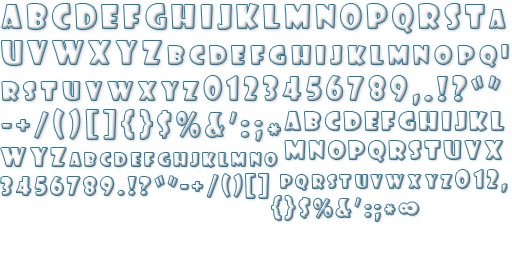
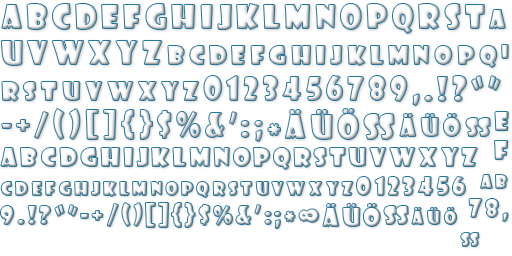
[274] font-support for German umlauts

Changed region(s): [[0.0, 0.4062, 1.0, 0.9062], [0.875, 0.9062, 0.9375, 0.9688]]

diff --git a/Source/FirstParty/AllInOneSolution/AllInOneSolution/Core/gui/BitmapFont.cpp b/Source/FirstParty/AllInOneSolution/AllInOneSolution/Core/gui/BitmapFont.cpp
@@ -8,25 +8,26 @@
 
 #include <utility>
 
-BitmapFont::Glyph::Glyph(const sf::Texture& texture, int xOffset) : Sprite(texture), m_spacing(texture.getSize().x), m_xOffset(xOffset)
-{
-}
-
-BitmapFont::Glyph::Glyph(const sf::Texture& texture, int spacing, int xOffset) : Sprite(texture), m_spacing(spacing), m_xOffset(xOffset)
-{
-}
-
-BitmapFont::Glyph::Glyph(const sf::Texture& texture, const sf::IntRect& rectangle, int xOffset) : Sprite(texture, rectangle), m_spacing(rectangle.width), m_xOffset(xOffset)
-{
-}
-
-BitmapFont::Glyph::Glyph(const sf::Texture& texture, const sf::IntRect& rectangle, int spacing, int xOffset) : Sprite(texture, rectangle), m_spacing(spacing), m_xOffset(xOffset)
+BitmapFont::Glyph::Glyph(const sf::Texture& texture,
+    const sf::IntRect& rectangle,
+    int spacing,
+    int xOffset,
+    int yOffset) :
+        Sprite(texture, rectangle),
+        m_spacing(spacing),
+        m_xOffset(xOffset),
+        m_yOffset(yOffset)
 {
 }
 
 int BitmapFont::Glyph::getSpacing() const
 {
     return static_cast<int>(m_spacing * getScale().x);
+}
+
+int BitmapFont::Glyph::getVerticalOffset() const 
+{
+    return static_cast<int>(m_yOffset * getScale().y);
 }
 
 void BitmapFont::Glyph::draw(sf::RenderTarget& target, sf::RenderStates states) const
@@ -38,8 +39,6 @@ void BitmapFont::Glyph::draw(sf::RenderTarget& target, sf::RenderStates states) 
 
 bool BitmapFont::loadFromFile(const std::string& path, ResourceManager& resourceManager)
 {
-
-    int height;
     tinyxml2::XMLDocument doc;
     doc.LoadFile(path.c_str());
     
@@ -48,18 +47,25 @@ bool BitmapFont::loadFromFile(const std::string& path, ResourceManager& resource
         sf::err() << "XML level file '" << path << "' is not valid!" << std::endl;
         return false;
     }
+    m_fileName = path;
 
-    tinyxml2::XMLElement* bitmapfont = doc.FirstChildElement("bitmapfont");
+    auto bitmapfont = doc.FirstChildElement("bitmapfont");
     m_texture = resourceManager.getTexture(bitmapfont->FirstChildElement("image")->Attribute("name"));
-    height = bitmapfont->FirstChildElement("height")->IntAttribute("value"); 
+    auto height = bitmapfont->FirstChildElement("height")->IntAttribute("value"); 
     for(auto it = bitmapfont->FirstChildElement("glyphs")->FirstChildElement("glyph"); it != nullptr; it = it->NextSiblingElement("glyph"))
     {
         int width = it->IntAttribute("width");
         int spacing = width;
         it->QueryIntAttribute("spacing", &spacing);
 
-        BitmapFont::Glyph glyph = BitmapFont::Glyph(*m_texture, sf::IntRect(it->IntAttribute("x"), it->IntAttribute("y"), width, height), spacing, it->IntAttribute("xoffset"));
-        m_glyphs.insert(std::make_pair(it->Attribute("name")[0], glyph));
+        BitmapFont::Glyph glyph = BitmapFont::Glyph(*m_texture,
+            sf::IntRect(it->IntAttribute("x"), it->IntAttribute("y"), width, height),
+            spacing, it->IntAttribute("xoffset"), it->IntAttribute("yoffset"));
+        auto name = std::string(it->Attribute("name"));
+        auto key = name[0];
+        if(name.length() > 1 && name[0] == '#')
+            key = utility::stringTo<int>(name.substr(1));
+        m_glyphs.insert(std::make_pair(key, glyph));
     }
     m_fontSize = height;
 
@@ -82,7 +88,10 @@ BitmapFont::Glyph BitmapFont::getGlyph(const char key) const
     if(m_glyphs.count(key))
         return m_glyphs.at(key);
 
-    throw std::runtime_error(utility::replace(utility::translateKey("UnknownGlyph"), utility::toString(key)));
+    throw std::runtime_error(
+        utility::replace(
+            utility::replace(utility::translateKey("UnknownGlyph"), m_fileName),
+        utility::toString(key)));
 }
 
 unsigned int BitmapFont::getFontSize()

diff --git a/Source/FirstParty/AllInOneSolution/AllInOneSolution/Core/gui/BitmapFont.hpp b/Source/FirstParty/AllInOneSolution/AllInOneSolution/Core/gui/BitmapFont.hpp
@@ -24,13 +24,14 @@ public:
     class Glyph : public sf::Sprite
     {
     public:
-
-        Glyph(const sf::Texture& texture, int xOffset);
-        Glyph(const sf::Texture& texture, int spacing, int xOffset);
-        Glyph(const sf::Texture& texture, const sf::IntRect& rectangle, int xOffset);
-        Glyph(const sf::Texture& texture, const sf::IntRect& rectangle, int spacing, int xOffset);
+        Glyph(const sf::Texture& texture,
+            const sf::IntRect& rectangle = sf::IntRect(0, 0, 0, 0),
+            int spacing = 0,
+            int xOffset = 0,
+            int yOffset = 0);
 
         int getSpacing() const;
+        int getVerticalOffset() const;
 
     private:
 
@@ -38,6 +39,7 @@ public:
 
         int m_spacing;
         int m_xOffset;
+        int m_yOffset;
     };
 
     bool loadFromFile(const std::string& path, ResourceManager& resourceManager);
@@ -49,6 +51,7 @@ private:
     bool validate(const tinyxml2::XMLDocument& document);
 
 private:
+    std::string m_fileName;
     std::map<char, Glyph> m_glyphs;
     sf::Texture* m_texture;
     unsigned int m_fontSize;

diff --git a/Source/FirstParty/AllInOneSolution/AllInOneSolution/Core/gui/LineLabel.cpp b/Source/FirstParty/AllInOneSolution/AllInOneSolution/Core/gui/LineLabel.cpp
@@ -86,11 +86,12 @@ void LineLabel::rebuild()
     auto offset = getOffset();
     for(auto it = begin(m_text); it != end(m_text); it++)
     {
-        m_glyphs.push_back(m_font->getGlyph(*it));
-        m_glyphs.back().setPosition(shift + position.x + xOffset + offset.x, position.y + offset.y);
-        m_glyphs.back().setRotation(m_rotation);
+        auto glyph = m_font->getGlyph(*it);
+        glyph.setPosition(shift + position.x + xOffset + offset.x, position.y + glyph.getVerticalOffset() + offset.y);
+        glyph.setRotation(m_rotation);
+        m_glyphs.push_back(glyph);
 
-        xOffset += m_font->getGlyph(*it).getSpacing();
+        xOffset += glyph.getSpacing();
     }
     m_width = xOffset;
 }
